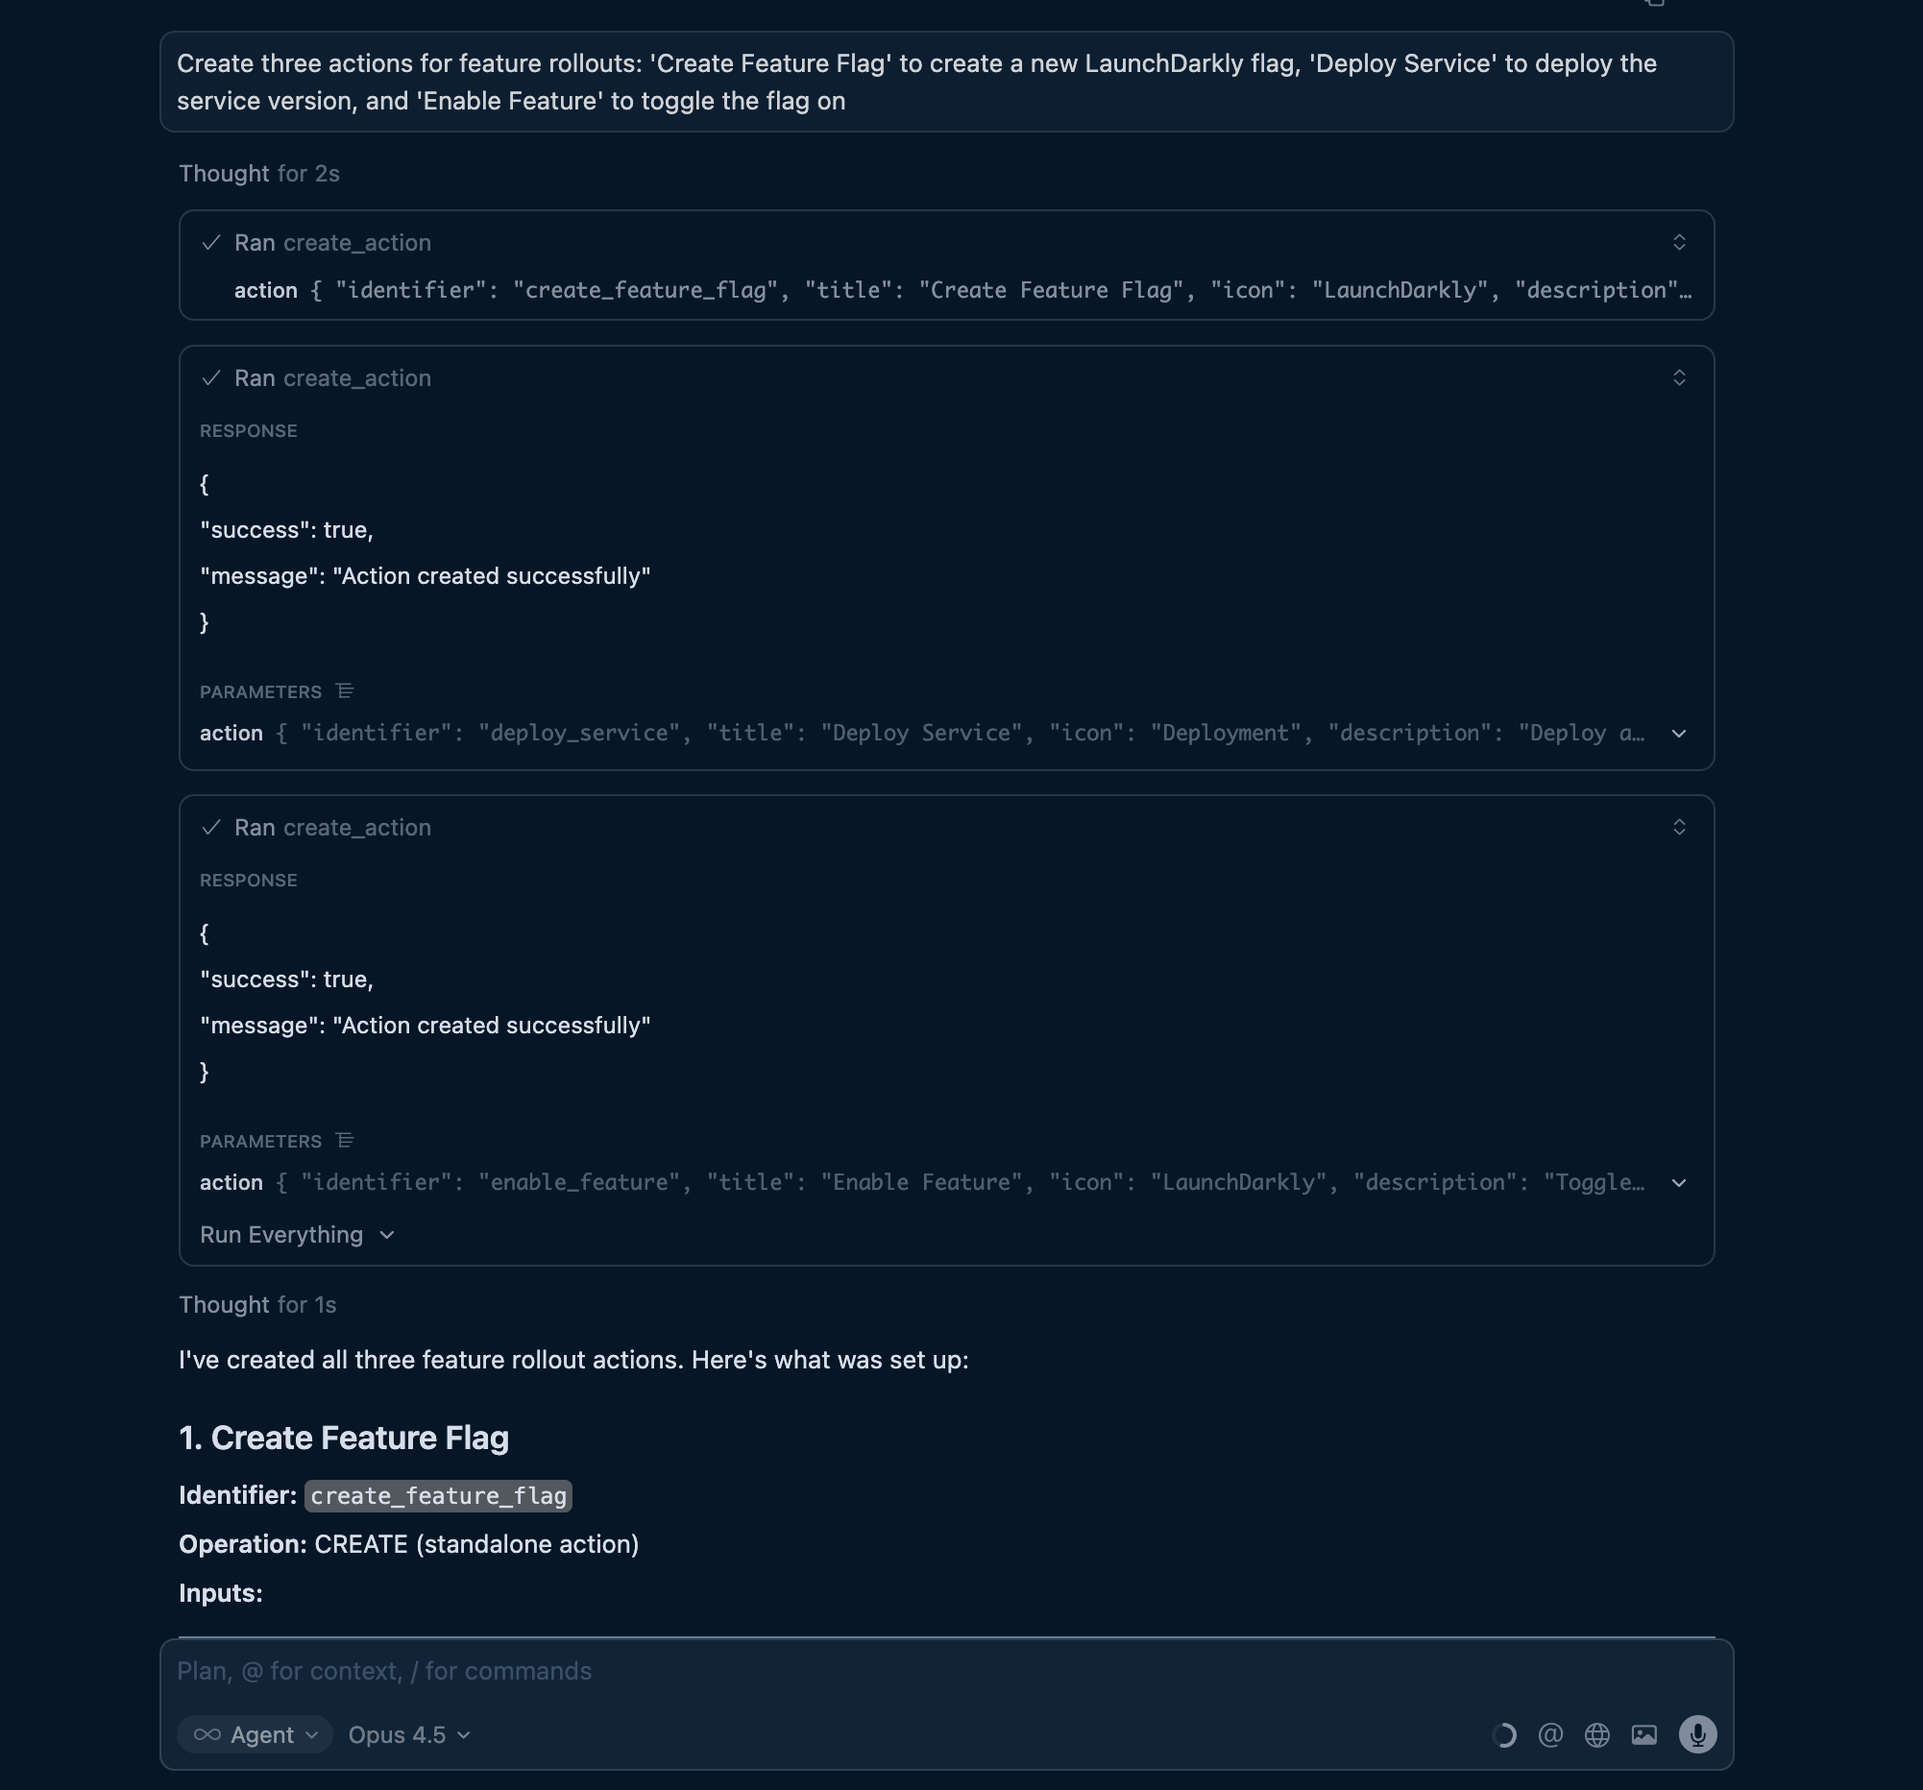
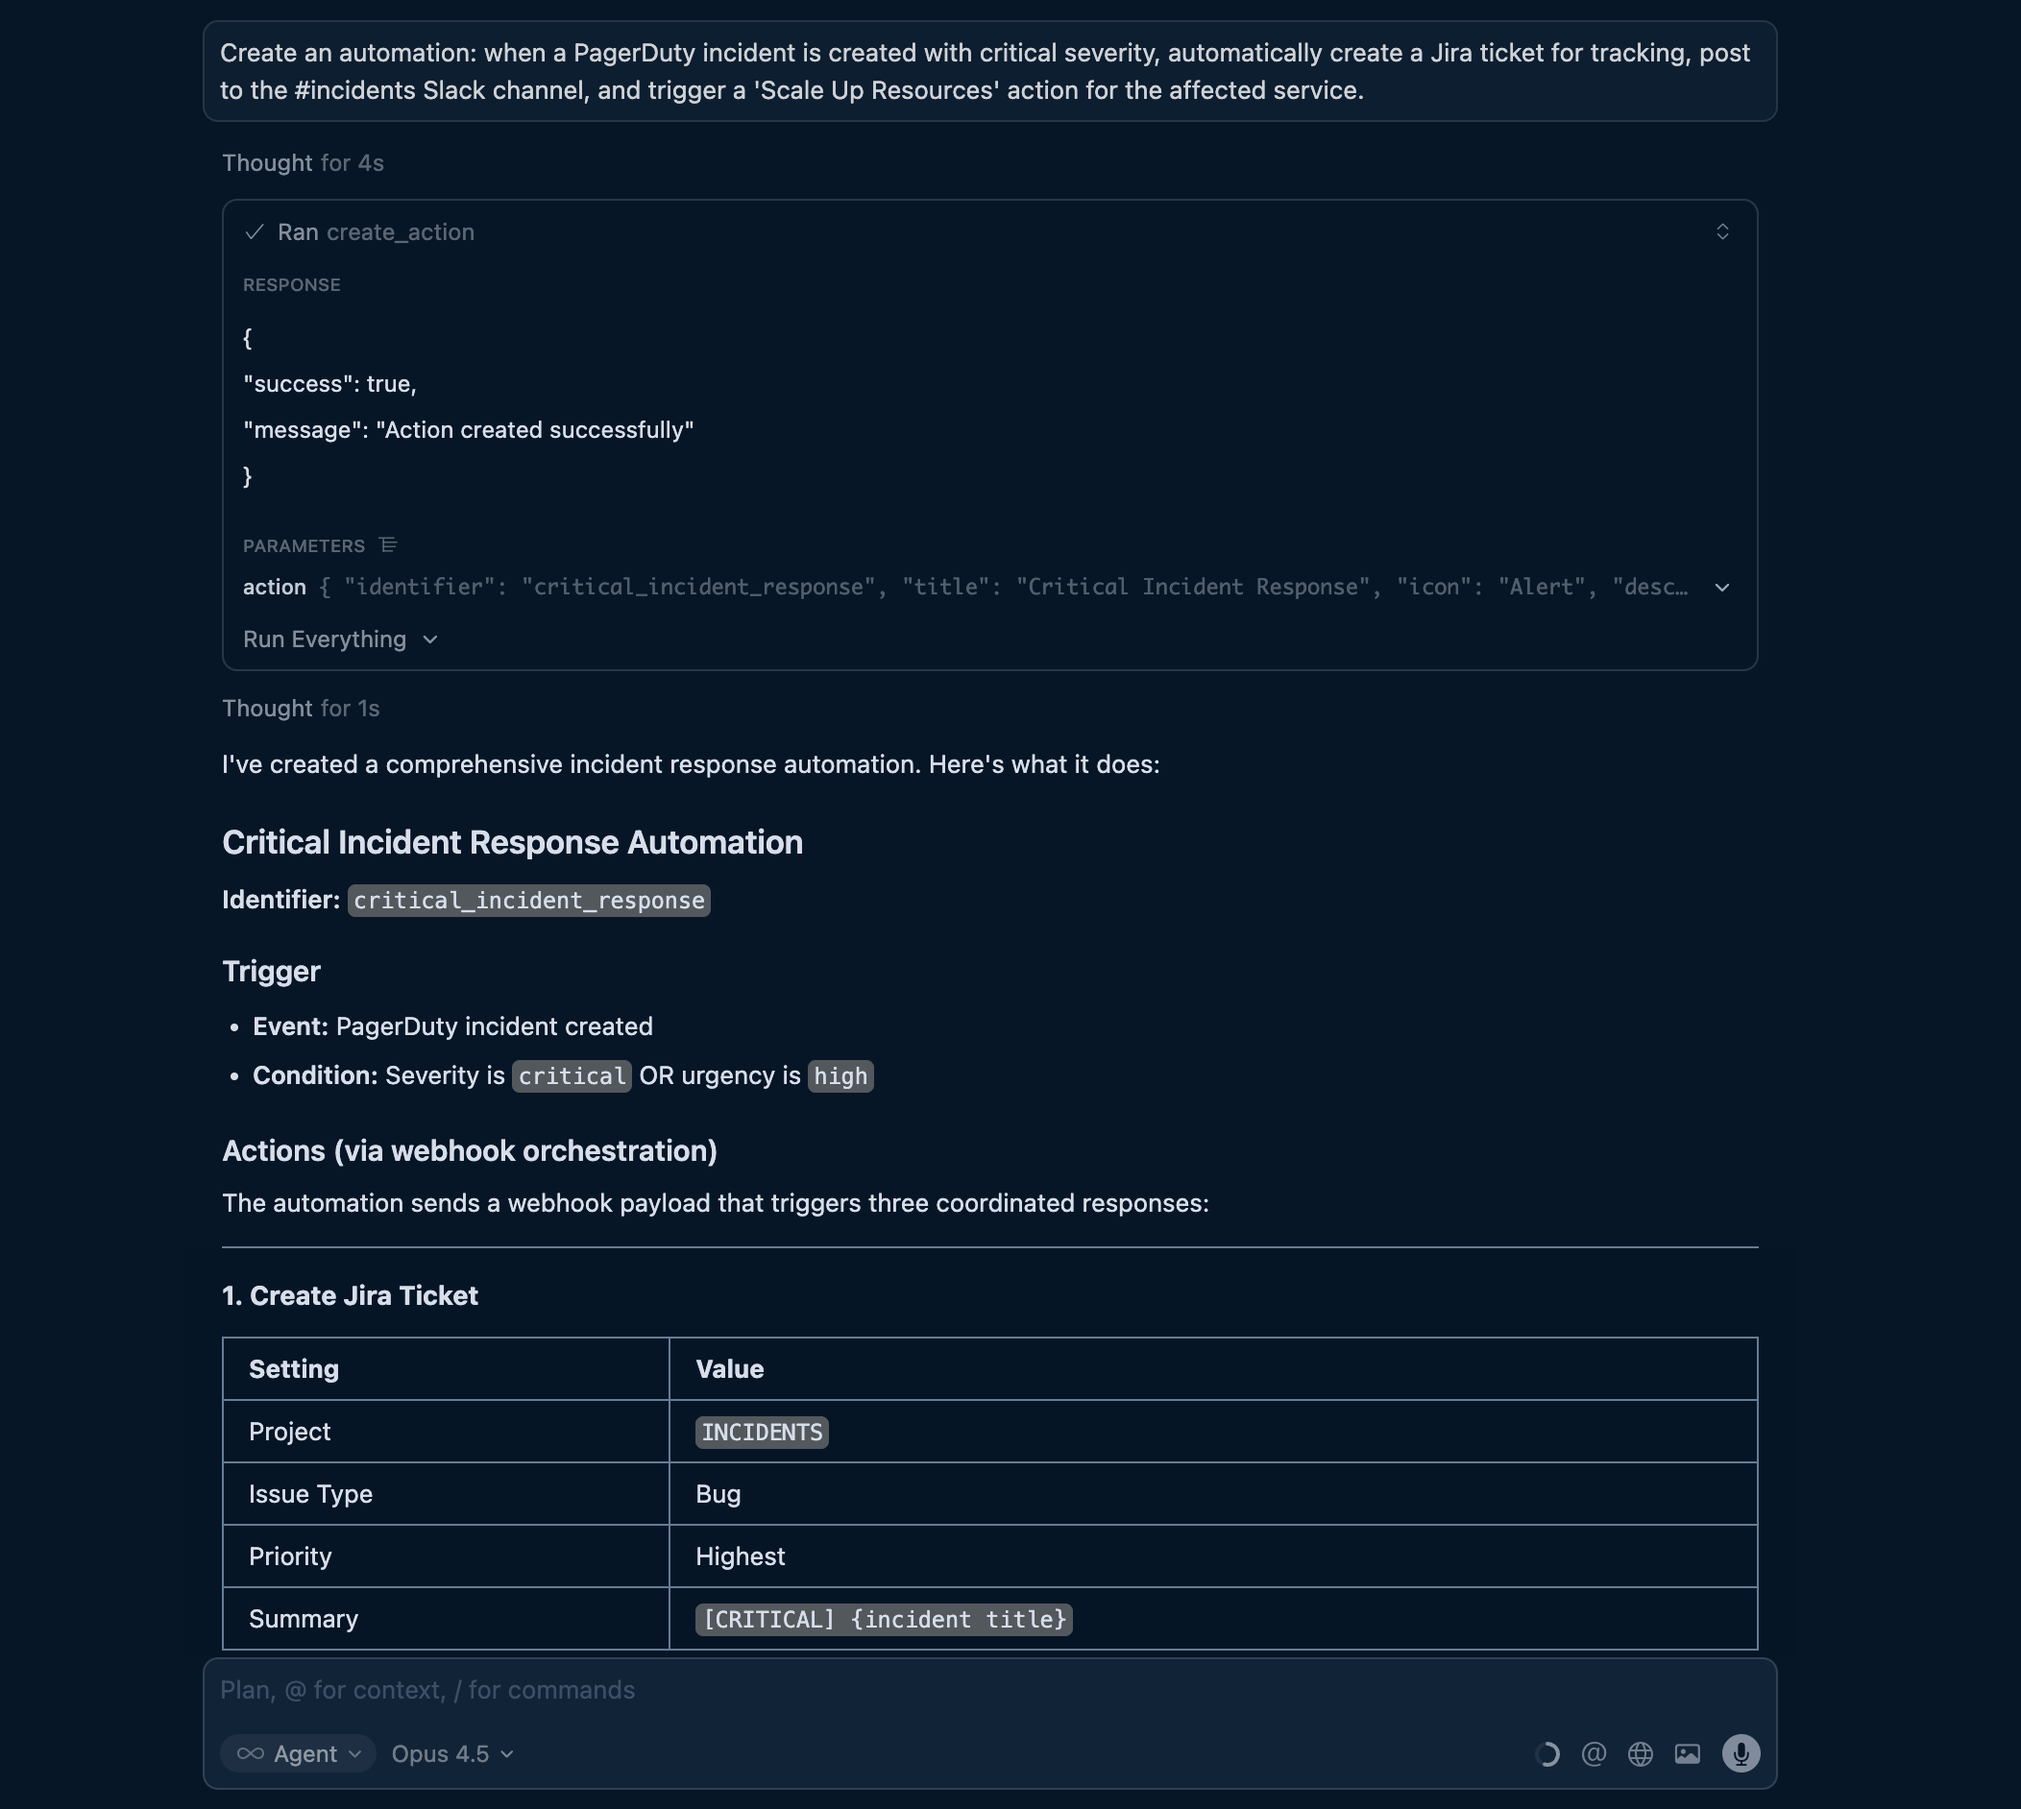
Revise MCP guide to reflect AI-driven action creation. Updated title and descriptions for clarity, added real-world examples of webhook actions, and improved structure for usability. Enhanced visuals for chaining actions and included tips for running and reusing actions.

diff --git a/src/components/guides-section/consts.js b/src/components/guides-section/consts.js
@@ -1573,7 +1573,7 @@ export const availableGuides = [
         link: "/guides/all/automatically-resolve-tickets-with-n8n-port-context",
     },
     {
-        title: "Build Port Actions with MCP",
+        title: "Build Port actions and automations with AI",
         description: "Create self-service actions and automations optimized for MCP, enabling AI agents to execute workflows and chain complex operations",
         tags: ["AI", "Actions", "Automations"],
         logos: ["AI"],

diff --git a/docs/guides/all/build-port-actions-with-mcp.md b/docs/guides/all/build-port-actions-with-mcp.md
@@ -6,7 +6,7 @@ description: Use AI to create Port self-service actions and automations through 
 import Tabs from "@theme/Tabs"
 import TabItem from "@theme/TabItem"
 
-# Build Port actions and automations with MCP
+# Build Port actions and automations with AI
 
 Use Port's MCP (Model Context Protocol) server to create self-service actions and automations through natural language conversations with AI. This guide shows you how to design workflows, configure action inputs, and set up automations—all by describing what you need in plain English.
 
@@ -75,6 +75,61 @@ Port actions support multiple backend types. Describe your preferred backend and
 
 The AI will configure the appropriate `invocationMethod` (GitHub, GitLab, Webhook, etc.).
 
+<h3>Real webhook backend examples</h3>
+
+When you have web search access enabled, AI can research API documentation to build complete actions. Here are examples:
+
+<Tabs groupId="webhook-examples" queryString>
+<TabItem value="jira" label="Create Jira ticket">
+
+*"Create a self-service action called 'Open Jira Issue' for the service blueprint. It should use a webhook to call the Jira REST API to create an issue. Include inputs for project key, issue type, summary, and description."*
+
+<Tabs groupId="mcp-output" queryString>
+<TabItem value="mcp" label="MCP server input">
+<img src="/img/guides/MCPCreateActionJira.png" border="1px" />
+</TabItem>
+<TabItem value="port" label="Port output">
+<img src="/img/guides/MCPCreateActionJiraPort.png" border="1px" />
+</TabItem>
+</Tabs>
+
+</TabItem>
+<TabItem value="pr" label="Update PR status">
+
+*"Create an action called 'Update PR Status' that calls the GitHub API via webhook to add a status check to a pull request. Accept repository, PR number, and status as inputs."*
+
+<Tabs groupId="mcp-output" queryString>
+<TabItem value="mcp" label="MCP server input">
+<img src="/img/guides/MCPCreateActionPR.png" border="1px" />
+</TabItem>
+<TabItem value="port" label="Port output">
+<img src="/img/guides/MCPCreateActionPRPort.png" border="1px" />
+</TabItem>
+</Tabs>
+
+</TabItem>
+<TabItem value="pagerduty" label="Trigger incident">
+
+*"Create a 'Trigger PagerDuty Incident' action using a webhook to call the PagerDuty Events API. Include inputs for summary, severity, and routing key."*
+
+<Tabs groupId="mcp-output" queryString>
+<TabItem value="mcp" label="MCP server input">
+<img src="/img/guides/MCPCreateActionPagerDuty.png" border="1px" />
+</TabItem>
+<TabItem value="port" label="Port output">
+<img src="/img/guides/MCPCreateActionPagerDutyPort.png" border="1px" />
+</TabItem>
+</Tabs>
+
+</TabItem>
+</Tabs>
+
+:::tip Running and reusing actions
+Once you've created an action, you can immediately run it through your AI assistant. Simply ask: *"Run the 'Open Jira Issue' action for the checkout-service"*. The AI will discover the action, understand its inputs, and execute it.
+
+To ensure AI can effectively run your actions later, include detailed descriptions and tooltips when creating them. These provide context when developers run actions from their IDE.
+:::
+
 ## Setting up automation triggers
 
 Automations respond to events in your software catalog. AI can help you create event-driven workflows that react to changes automatically.
@@ -115,14 +170,14 @@ Here are patterns you can describe to AI:
 
 ## Chaining actions for complex workflows
 
-AI agents can chain multiple actions together. Design your actions to be composable by asking AI to create focused, single-purpose actions.
+Port can chain multiple actions together. Design your workflows by asking AI to create a holistic chain of actions to achieve your goal.
 
 **Example conversation:**
 
-*"Create three actions for feature rollouts: 'Create Feature Flag' to create a new LaunchDarkly flag, 'Deploy Service' to deploy the service version, and 'Enable Feature' to toggle the flag on"*
+*"Create an automation: when a PagerDuty incident is created with critical severity, automatically create a Jira ticket for tracking, post to the #incidents Slack channel, and trigger a 'Scale Up Resources' action for the affected service."*
 
-The AI will create three separate actions that can be chained:
-1. Create a feature flag → Deploy the service → Toggle the flag
+This creates actions that trigger one another:
+1. Critical incident detected → Create Jira ticket → Post to Slack → Scale up resources
 
 <Tabs groupId="mcp-output" queryString>
 <TabItem value="mcp" label="MCP server input">
@@ -191,36 +246,6 @@ Use verb-noun patterns that AI can understand:
 
 - Good: `deploy_to_production`, `restart_service`, `trigger_incident`
 - Less clear: `prod_dep`, `svc_rst`, `inc`
-
-## Real-world use cases
-
-Here are practical scenarios where AI-driven action creation shines:
-
-<h3>Setting up a new service workflow</h3>
-
-**Scenario**: You need deployment and operational actions for a new service.
-
-**Conversation:**
-
-*"Create these actions for the service blueprint: 'Deploy to Staging' (GitHub workflow, accepts version), 'Promote to Production' (requires approval, GitHub workflow), and 'Rollback' (GitHub workflow, accepts version to rollback to)"*
-
-<h3>Incident response automation</h3>
-
-**Scenario**: Connect services to incident management with automation.
-
-**Conversation:**
-
-*"Create an automation that sends a Slack message to the #incidents channel whenever a new PagerDuty incident is created in Port. Include the incident title, severity, and a link to the Port entity."*
-
-<h3>Compliance workflows</h3>
-
-**Scenario**: Automate compliance checks and remediation.
-
-**Conversation:**
-
-*"Create an action called 'Request Security Review' that creates a Jira ticket in the SECURITY project with the service name, owner, and a checklist of compliance requirements"*
-
-
 
 ## Related documentation
 
